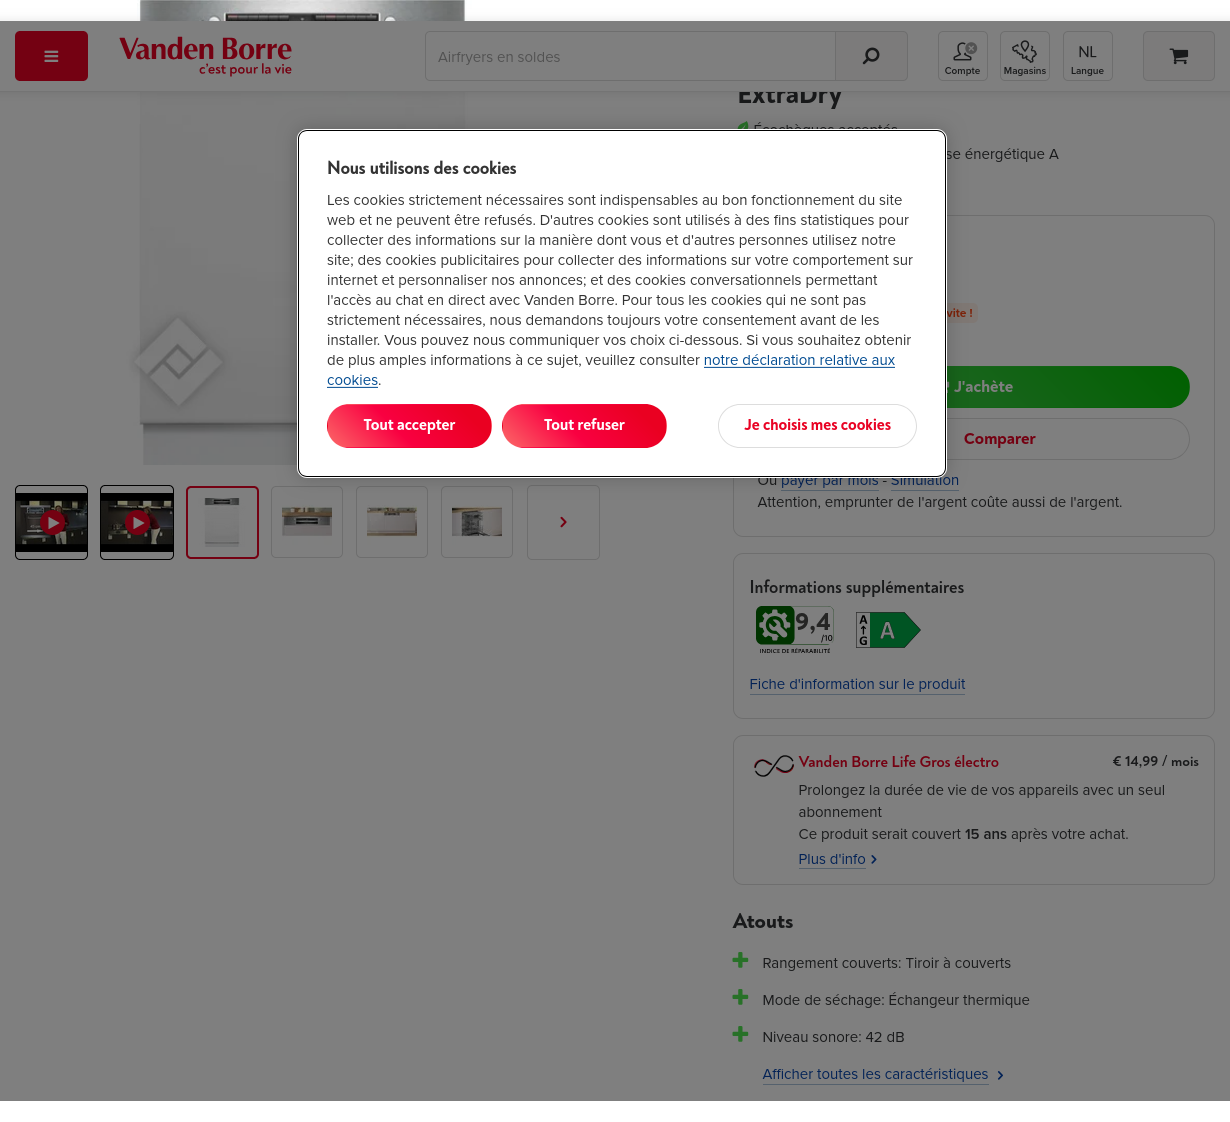
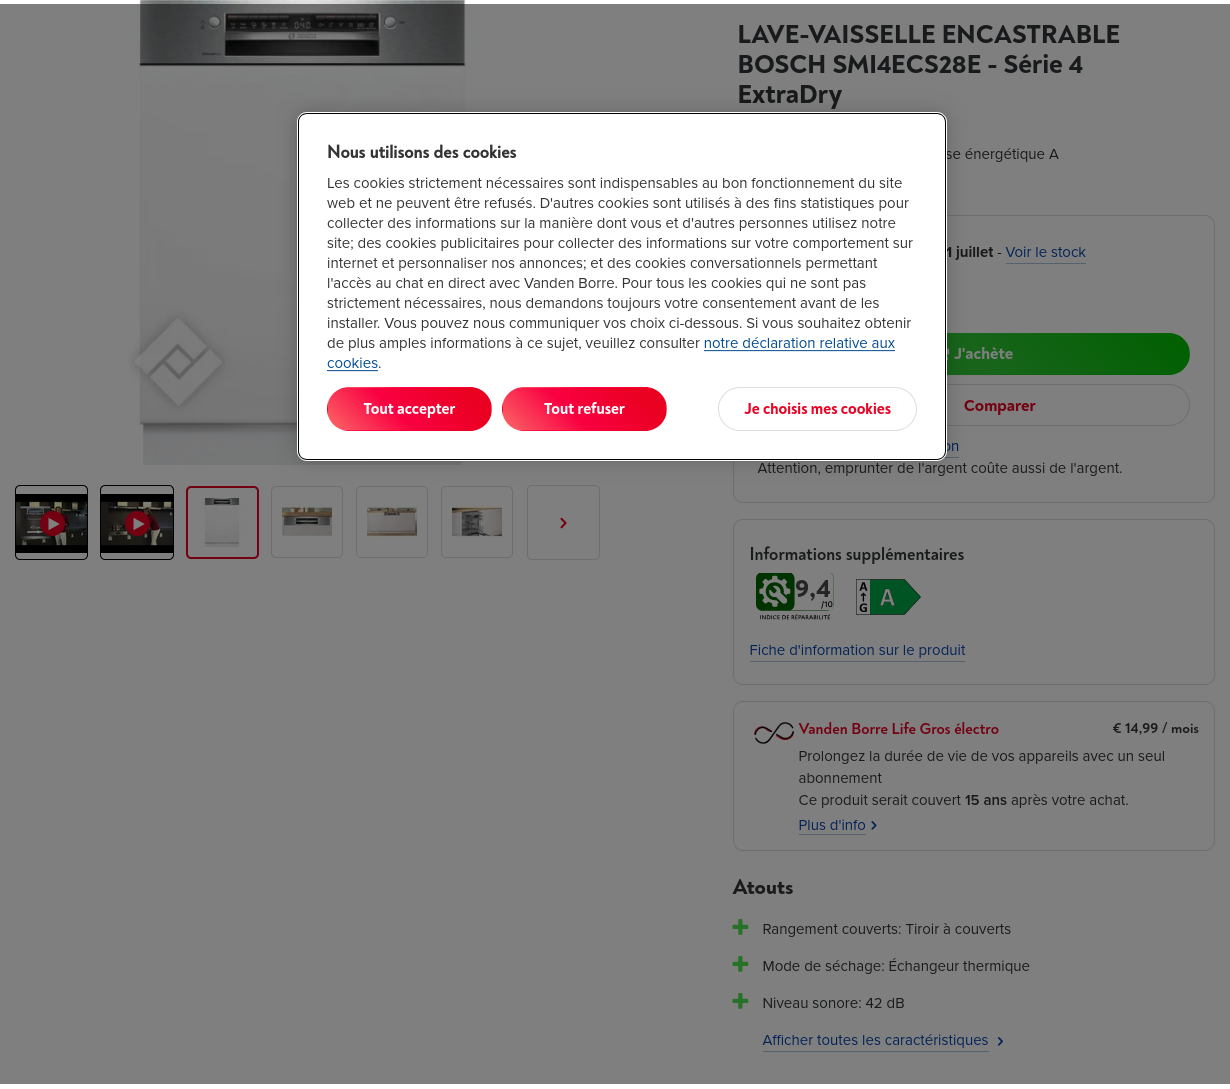
Latest scraping prices: Sat Jul  5 11:22:09 UTC 2025

diff --git a/scrapes/prices/vandenborre-SMI4ECS28E.md b/scrapes/prices/vandenborre-SMI4ECS28E.md
@@ -1,8 +1,6 @@
-Disponible \- Voir le stock
+Disponible à partir du ven. 11 juillet \- Voir le stock
 
 € 699,00
-
-Moins de 5 en stock, commandez vite !
 
 Action encastrable
 
